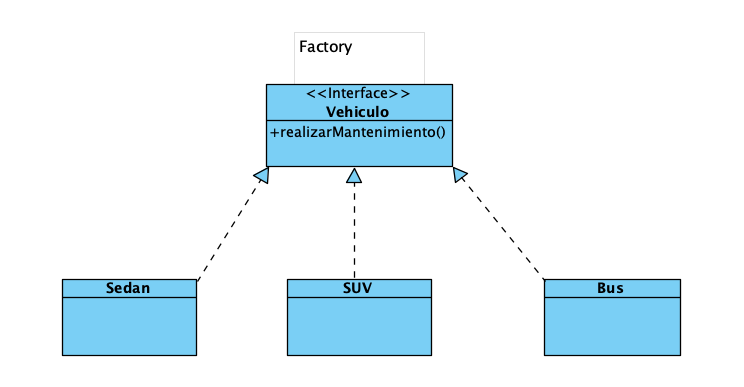
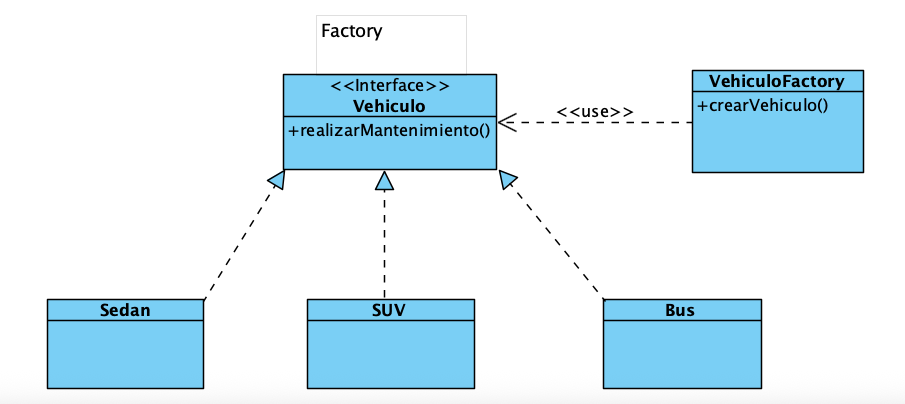
update factory pattern

diff --git a/src/pe/edu/tecsup/patrones/_1_creacional/factory/caso2/ServiceFactory.java b/src/pe/edu/tecsup/patrones/_1_creacional/factory/caso2/ServiceFactory.java
@@ -1,8 +1,16 @@
 package pe.edu.tecsup.patrones._1_creacional.factory.caso2;
 
 public class ServiceFactory {
+
     public UserRepository createRepository() {
         System.out.println("Factory: Creando UserRepository");
         return new UserRepositoryImpl();
     }
+
+    public CreateUserUseCase createCreateUserUseCase() {
+        System.out.println("Factory: Creando CreateUserUseCase");
+        UserRepository repository = createRepository();
+        return new CreateUserUseCaseImpl(repository);
+    }
+
 }

diff --git a/src/pe/edu/tecsup/patrones/_1_creacional/factory/caso2/CreateUserUseCaseImpl.java b/src/pe/edu/tecsup/patrones/_1_creacional/factory/caso2/CreateUserUseCaseImpl.java
@@ -1,0 +1,19 @@
+package pe.edu.tecsup.patrones._1_creacional.factory.caso2;
+
+public class CreateUserUseCaseImpl implements CreateUserUseCase {
+
+    UserRepository userRepository;
+
+    public CreateUserUseCaseImpl(UserRepository userRepository) {
+        this.userRepository = userRepository;
+    }
+
+    @Override
+    public User execute(Integer id) {
+
+        return userRepository.findUserById(id);
+
+    }
+
+
+}

diff --git a/src/pe/edu/tecsup/patrones/_1_creacional/factory/caso1/VehiculoFactory.java b/src/pe/edu/tecsup/patrones/_1_creacional/factory/caso1/VehiculoFactory.java
@@ -3,6 +3,7 @@ package pe.edu.tecsup.patrones._1_creacional.factory.caso1;
 public class VehiculoFactory {
 
     public Vehiculo crearVehiculo(String tipo) {
+
         if (tipo.equalsIgnoreCase("SUV")) {
             return new SUV();
         } else if (tipo.equalsIgnoreCase("SEDAN")) {

diff --git a/src/pe/edu/tecsup/patrones/_1_creacional/factory/caso2/Application.java b/src/pe/edu/tecsup/patrones/_1_creacional/factory/caso2/Application.java
@@ -9,6 +9,10 @@ public class Application {
         UserRepository repository = factory.createRepository();
         repository.findUserById(1);
 
+        //CreateUserUseCase createUserUseCase = factory.createCreateUserUseCase();
+        //createUserUseCase.execute(2);
+
+
     }
 
 }

diff --git a/src/pe/edu/tecsup/patrones/_1_creacional/factory/caso2/CreateUserUseCase.java b/src/pe/edu/tecsup/patrones/_1_creacional/factory/caso2/CreateUserUseCase.java
@@ -1,0 +1,6 @@
+package pe.edu.tecsup.patrones._1_creacional.factory.caso2;
+
+public interface CreateUserUseCase {
+
+    User execute(Integer id);
+}
